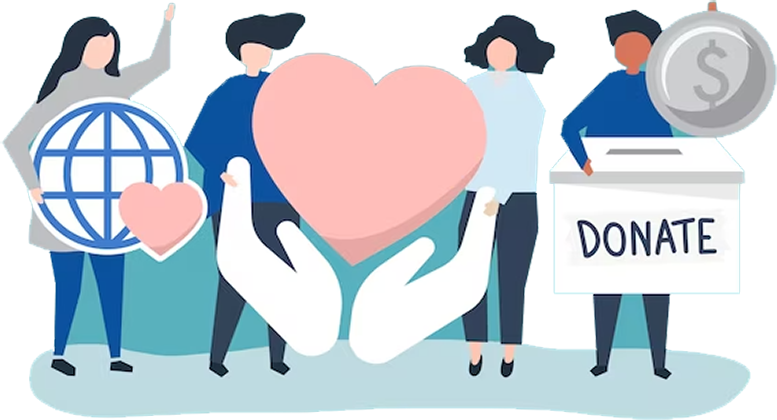
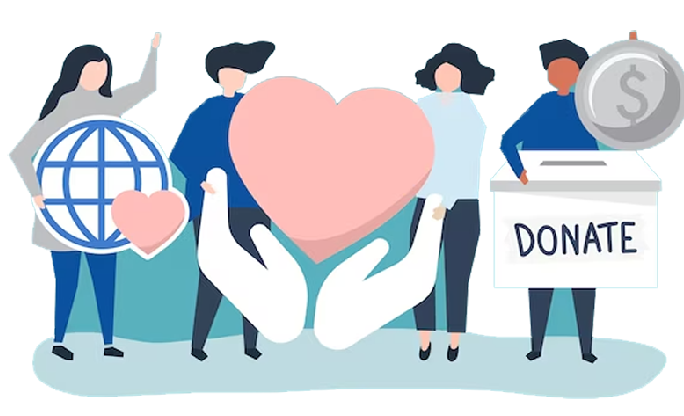
finishing the home page

diff --git a/FrontEnd/coeursolidaire/src/index.css b/FrontEnd/coeursolidaire/src/index.css
@@ -54,7 +54,7 @@ body{
   background-image: url("./imgs/HomeBg.png");
   background-repeat: no-repeat;
   background-size: 100% 100vh;
-  height: 100vh;
+  height: 100svh;
 }
 
 .Home_Header_Logo{
@@ -62,8 +62,9 @@ body{
   place-items: center;
 }
 .Home_Header_Logo img{
-  margin-top: 1em;
-  width:clamp(6em,15%,8em);;
+  position: relative;
+  top: 10px;
+  width:clamp(6em,11cqi,8em);;
   height: auto;
 }
 
@@ -85,7 +86,7 @@ body{
 
 .Home_Content_Hero img{
   width:95%;
-  height:clamp(20em, 27cqi,26em);
+  height:clamp(22em, 32cqi,26em);
   margin-bottom: 3em;
   
 }
@@ -100,7 +101,7 @@ body{
   width: 80%;
   color: var(--HomeTextColor);
   font-weight: bold;
-  font-size: clamp(2.2em,5cqi,4em);
+  font-size: clamp(2.2em,4.5cqi,4em);
 }
 
 .Home_Content_Btn{
@@ -114,9 +115,11 @@ body{
   color: white;
   border: 1px solid white;
   border-radius: 3em;
-  font-size:clamp(0.7em,1.5cqi, 1.35em);
+  font-size:clamp(0.7em,1.4cqi, 1.3em);
   padding: 0 9em;
   height: 4em;
+  font-weight: bold;
+
 }
 
 .Btn_Volunteer{
@@ -125,6 +128,12 @@ body{
 
 .Btn_Association{
   background-color: var(--BtnColor2);
+}
+
+.Btn_Volunteer:hover,
+.Btn_Association:hover{
+ box-shadow: 1px 1px 8px var(--HomeTextColor);
+ text-shadow: 1px 1px 8px var(--HomeTextColor);
 }
 
 
@@ -142,14 +151,27 @@ body{
   flex-grow: 1;
   gap: 5em;
   list-style: none;
-  font-size: 1.2em;
+  font-size:clamp(0.8em,1.6cqi, 1.2em);
   font-weight: 300;
+}
 
+.Home_Footer a{
+  text-decoration: none;
+}
+
+.Home_Footer a:hover{
+  opacity: 80%;
+  font-weight: 250;
+}
+
+
+.Home_Footer a:visited{
+  color: white;
 }
 
 .Home_Footer p{
   justify-self:end;
-  font-size: 1em;
+  font-size:clamp(0.7em,1.4cqi, 1em);
   font-weight: 100;
 }
 

diff --git a/FrontEnd/coeursolidaire/src/Pages/Home.js b/FrontEnd/coeursolidaire/src/Pages/Home.js
@@ -1,5 +1,6 @@
 import logo from "../imgs/HomeLogo.png"
 import HomeHero from "../imgs/HomeHero.png"
+import { Link } from "react-router-dom";
 
 
 
@@ -15,7 +16,7 @@ const Home = () => {
 
             <main className="Home_Content">
                 <figure className="Home_Content_Hero">
-                    <img src={HomeHero} alt="HomeHero" width="777" height="420"/>
+                    <img src={HomeHero} alt="HomeHero" width="684" height="416"/>
                 </figure>
 
                 <section className="Home_Content_Title">
@@ -24,16 +25,16 @@ const Home = () => {
 
                 <section className="Home_Content_Btn">
                     <button className="Btn_Volunteer">Are you a volounteer?</button>
-                    <button className="Btn_Association">Are you an association?</button>
+                    <button className="Btn_Association" >Are you an association?</button>
                 </section>
 
             </main>
 
             <footer className="Home_Footer">
                 <ul>
-                    <li>About</li>
-                    <li>Privacy Policy</li>
-                    <li>Terms of services</li>
+                    <li><Link to="/">About</Link></li>
+                    <li><Link to="/">Privacy Policy</Link></li>
+                    <li><Link to="/">Terms of services</Link></li>
                 </ul>
                 <p>2024 CoeurSolidaire- All Rights Reserved</p>
             </footer>
